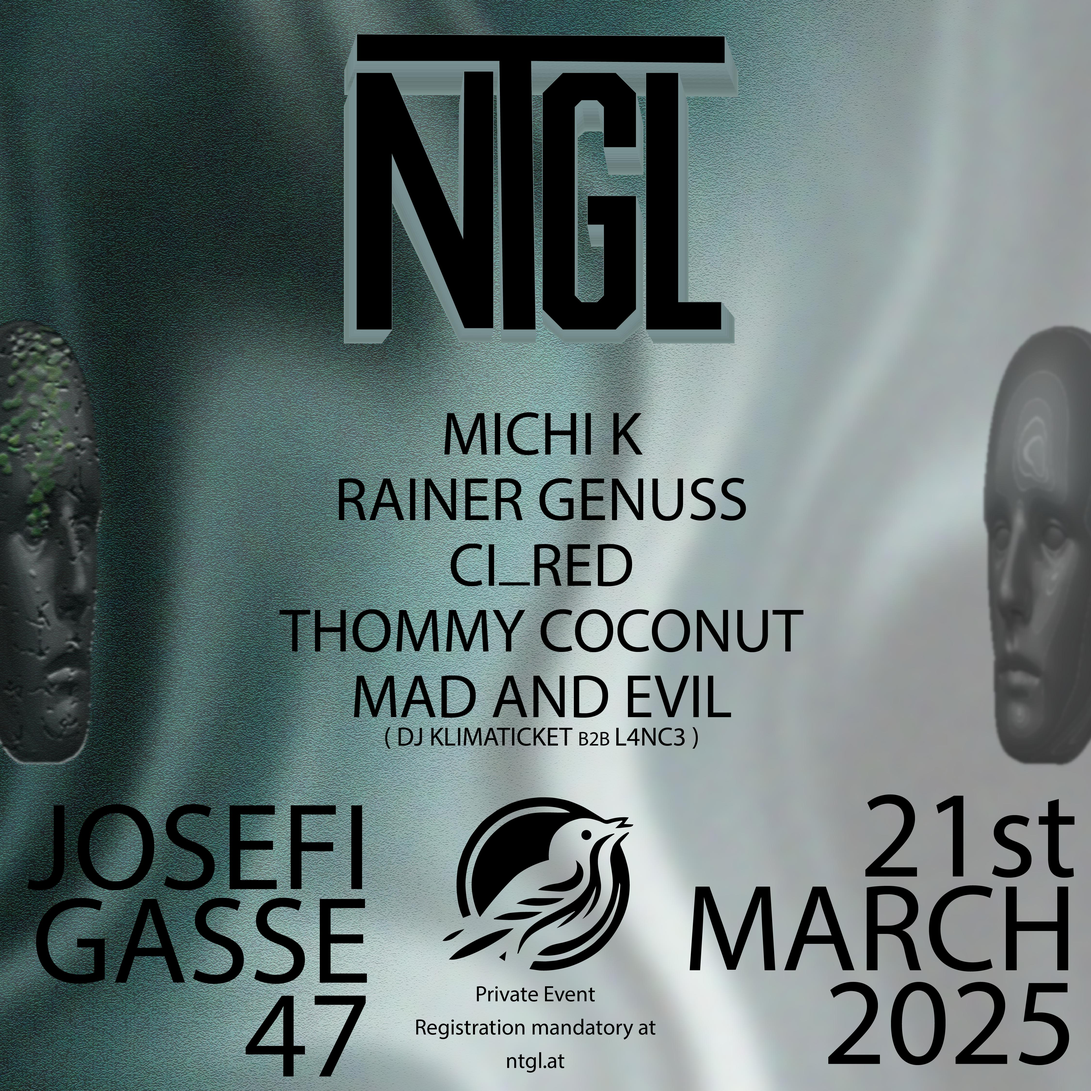
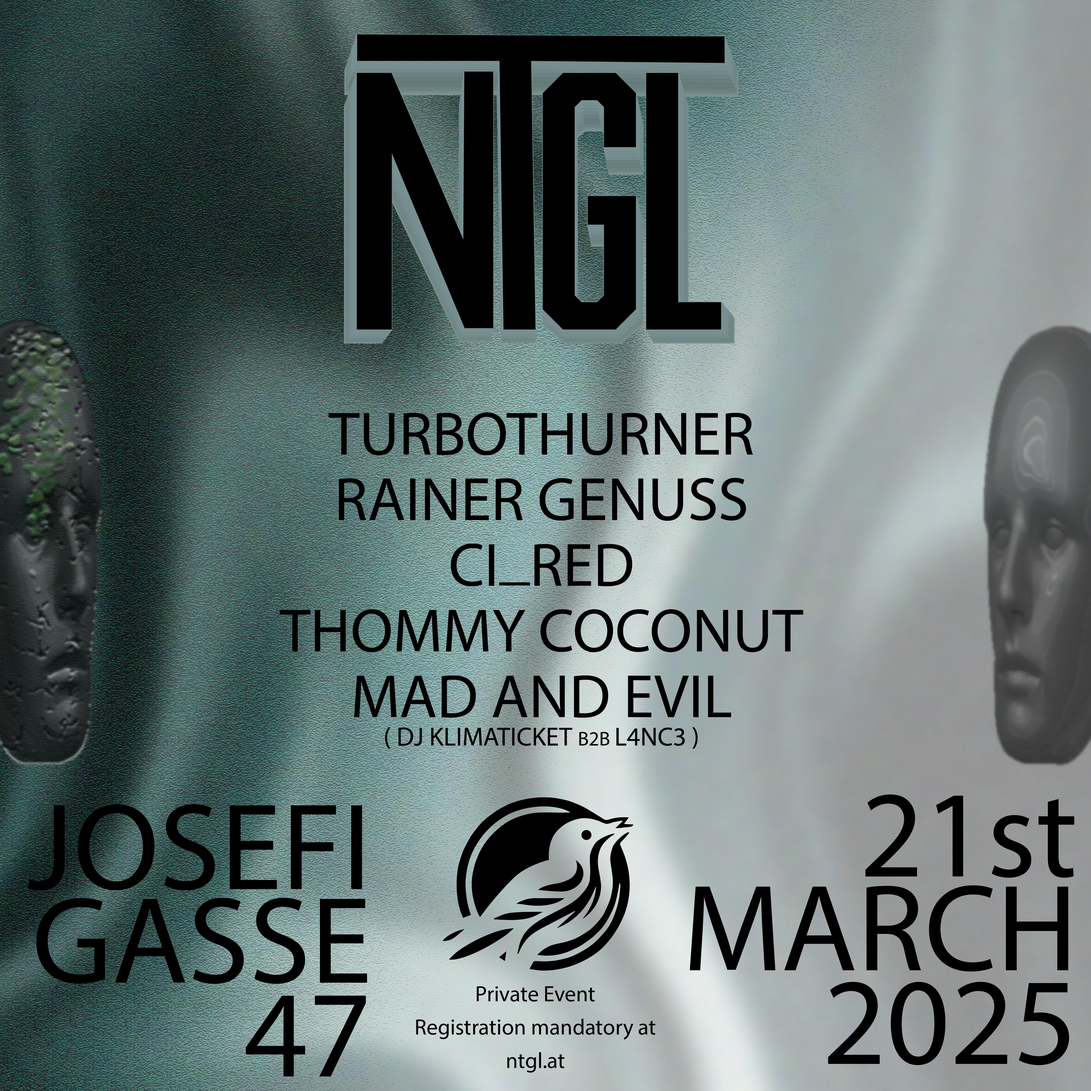
lineup update 3

diff --git a/src/app/components/custom/EventFlyer.tsx b/src/app/components/custom/EventFlyer.tsx
@@ -40,7 +40,7 @@ const EventFlyer: React.FC = () => {
   const lineup: LineupItem[] = [
     {
       time: "22:00 Uhr",
-      artist: "MICHI K [ZSTRAD]",
+      artist: "TURBOTHURNER",
       genre: "italo house EBM",
       videoLinks: [
         { url: "https://www.youtube.com/embed/T6ic2YgNZAw" },
